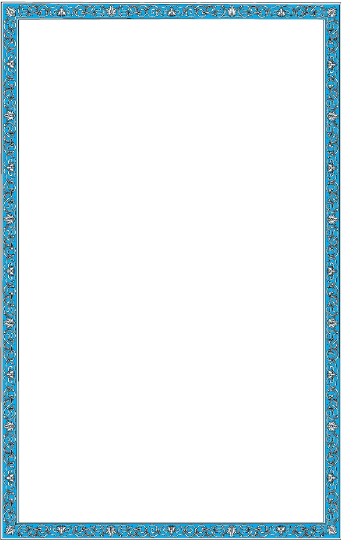
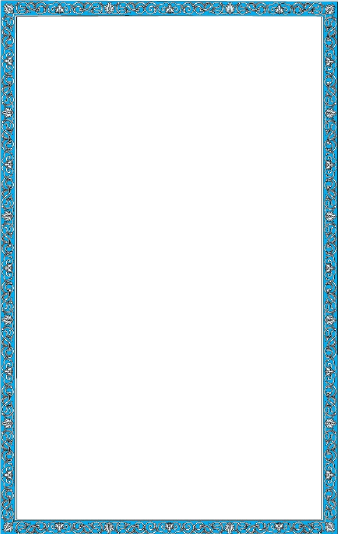
Trim mushaf border + make show/hide tab with button

Changed region(s): [[0.0, 0.0, 1.0, 1.0]]

diff --git a/src/pages/tabs/tabs.ts b/src/pages/tabs/tabs.ts
@@ -19,8 +19,11 @@ export class TabsPage {
   gozeAndHezb: string = '1'; // if not intialized by any value then it won't show on tabs!
   surahName: string = '1';
   pageNumber: string = '1';
-  tabMargin: string;
-  readonly MARGIN_BOTTOM = 'margin-bottom';
+  tabMarginHeight: string;
+  readonly MARGIN_BOTTOM_PRP = 'margin-bottom';
+  readonly SHOW_TAB_BTN_CLASS = '.show-tab-btn';
+  readonly HIDE_TAB_BTN_CLASS = '.hide-tab-btn';
+  readonly TAB_HEIGHT_CLASS = '.fixed-content';
 
   constructor(private popoverCtrl: PopoverController, private cdRef: ChangeDetectorRef,
     private screenOrientation: ScreenOrientation) {
@@ -31,8 +34,9 @@ export class TabsPage {
       mushafTabs: this.mushafTabs
     }
     let self = this;
-    $(function () {
-      self.hideTabBar();
+    $(function() {
+      self.tabMarginHeight =  $(self.TAB_HEIGHT_CLASS).css(self.MARGIN_BOTTOM_PRP);
+      self.toggleTabButton(true);
     });
   }
 
@@ -61,20 +65,15 @@ export class TabsPage {
   }
 
   hideTabBar() {
-    let mrg: string = $('.scroll-content').css(this.MARGIN_BOTTOM);
-    if (mrg !== '0') {
-      setTimeout(() => {
-        this.tabMargin = mrg;
-        this.toggleTab('none', '0');
-        this.toggleShowTabButton('block');
-      }, 5000);
-    }
+    let mrg: string = $(this.TAB_HEIGHT_CLASS).css(this.MARGIN_BOTTOM_PRP);
+    this.tabMarginHeight = mrg;
+    this.toggleTab('none', '0');
+    this.toggleTabButton(false);
   }
 
   showTabBar() {
-    this.toggleTab('flex', this.tabMargin);
-    this.toggleShowTabButton('none');
-    this.hideTabBar();
+    this.toggleTab('flex', this.tabMarginHeight);
+    this.toggleTabButton(true);
   }
 
   toggleTab(display: string, margin: string) {
@@ -86,11 +85,21 @@ export class TabsPage {
       });
     }
 
-    $('.scroll-content').css(this.MARGIN_BOTTOM, margin);
-    $('.fixed-content').css(this.MARGIN_BOTTOM, margin);
+    $('.scroll-content').css(this.MARGIN_BOTTOM_PRP, margin);
+    $(this.TAB_HEIGHT_CLASS).css(this.MARGIN_BOTTOM_PRP, margin);
   }
 
-  toggleShowTabButton(display: string) {
-    $('.bottom-right').css('display', display);
+  toggleTabButton(showTab: boolean) {
+    if (showTab) {
+      $(this.SHOW_TAB_BTN_CLASS).css('display', 'none');
+      $(this.HIDE_TAB_BTN_CLASS).css({
+        'display': 'block',
+        'bottom': Number(this.tabMarginHeight.replace('px','')) + 5
+      });
+    } else {
+      $(this.SHOW_TAB_BTN_CLASS).css('display', 'block');
+      $(this.HIDE_TAB_BTN_CLASS).css('display', 'none');
+    }
   }
 }
+

diff --git a/src/pages/tabs/tabs.html b/src/pages/tabs/tabs.html
@@ -5,4 +5,5 @@
   <ion-tab tabTitle="{{gozeAndHezb}}"></ion-tab>
   <ion-tab tabTitle="{{pageNumber}}"></ion-tab>
 </ion-tabs>
-<button id='show-tab-button' (click)='showTabBar()' class="bottom-right" style="display:none; opacity:0.5"><ion-icon name='arrow-dropup'></ion-icon></button>
+<button class='hide-tab-btn' (click)='hideTabBar()'><ion-icon name='arrow-dropdown'></ion-icon></button>
+<button class='show-tab-btn' (click)='showTabBar()'><ion-icon name='arrow-dropup'></ion-icon></button>

diff --git a/src/pages/tabs/tabs.scss b/src/pages/tabs/tabs.scss
@@ -3,9 +3,20 @@ page-tabs {
         //height: 10%;
         font-family: uthmanic;
     }
-
     #tab-t0-3 {
         //font-family: arabic;
         //font-size: 1.2em;
+    }
+    .show-tab-btn {
+        position: absolute;
+        bottom: 5px;
+        right: 20px;
+        background: darkgrey;
+        border-radius: 5px;
+        display: none;
+        opacity: 0.5;
+    }
+    .hide-tab-btn {
+        @extend .show-tab-btn;
     }
 }

diff --git a/src/app/service/quran-page/quran-page.service.ts b/src/app/service/quran-page/quran-page.service.ts
@@ -7,7 +7,7 @@ import { RegexUtils } from "../../util/regex-utils/regex-utils";
 
 @Injectable()
 export class QuranPageService {
-    private LOCAL_FILE_PATH = 'file:///home/zenbaei/Documents/quran-html-output/';
+    //private LOCAL_FILE_PATH = 'file:///home/zenbaei/Documents/quran-html-output/';
 
     constructor(private httpRequest: HttpRequest) { }
 

diff --git a/src/app/app.scss b/src/app/app.scss
@@ -43,11 +43,3 @@
     //left: 30px;
     //bottom: 70px
 }
-
-.bottom-right {
-    position: absolute;
-    bottom: 5px;
-    right: 20px;
-    background: darkgrey;
-    border-radius: 5px;
-}
